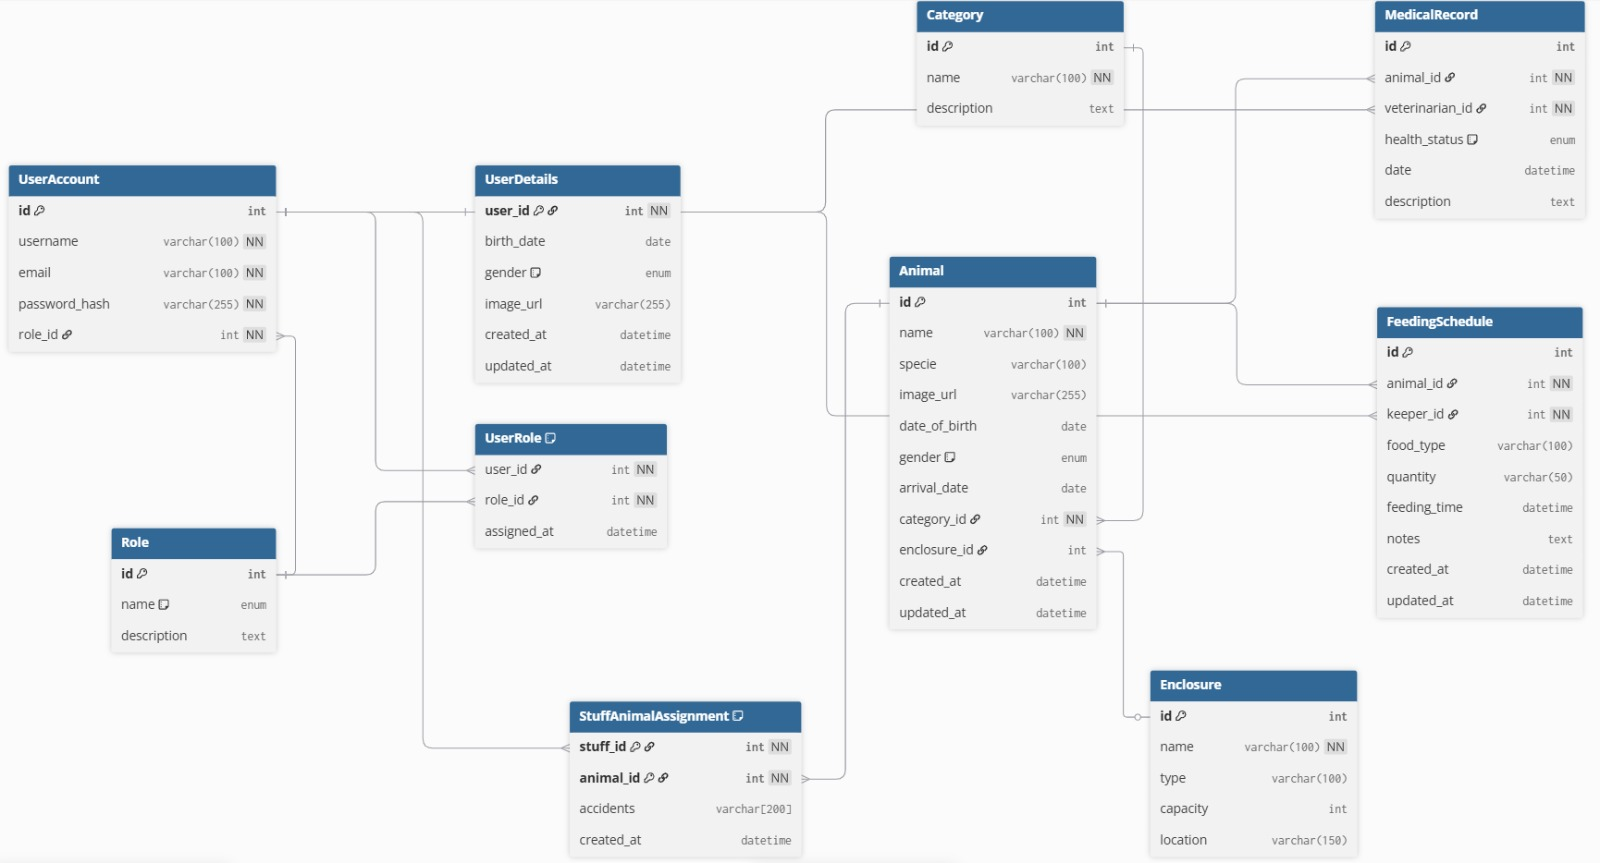
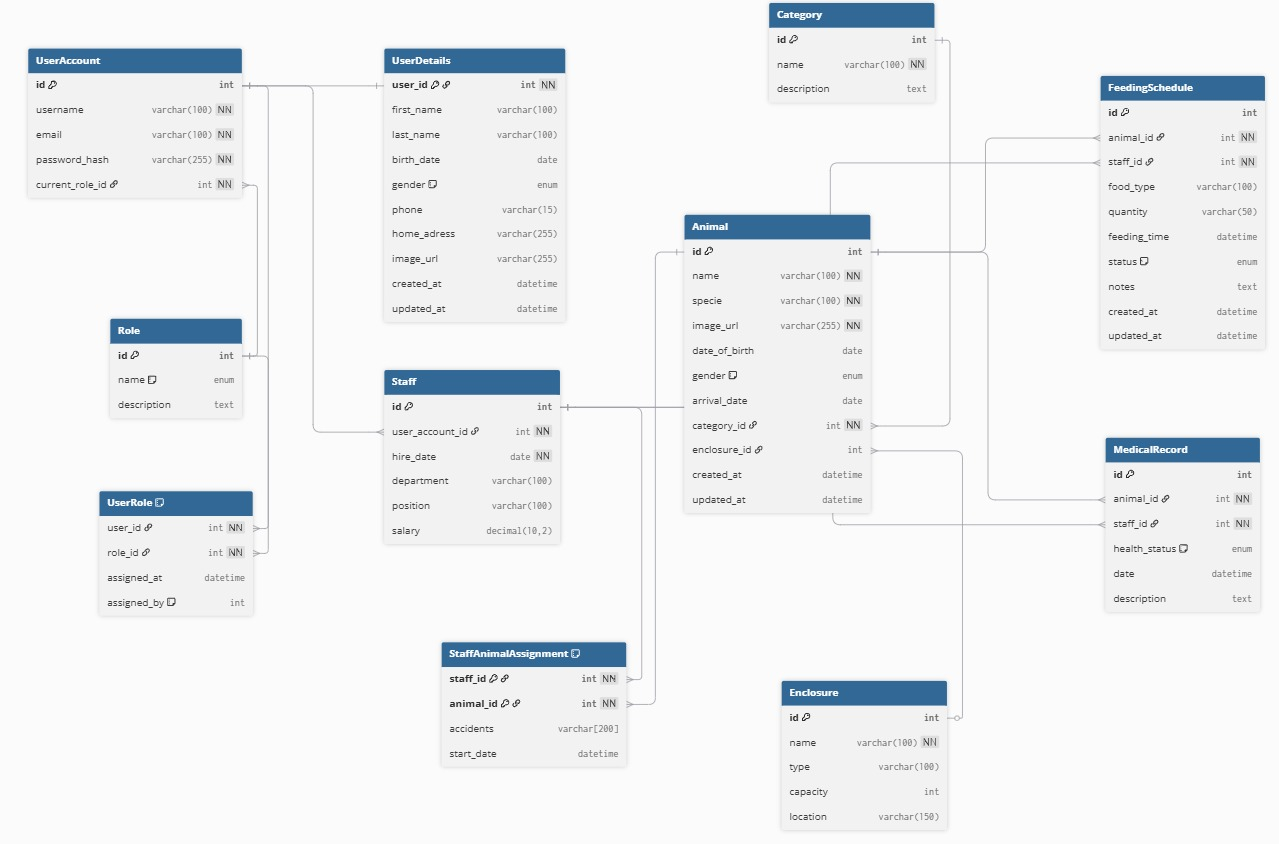
updated the DB design by adding Staff table to respect SRP and move data to separate table

diff --git a/backend/Models/UserDetails.cs b/backend/Models/UserDetails.cs
@@ -1,0 +1,41 @@
+using System.ComponentModel.DataAnnotations;
+using System.ComponentModel.DataAnnotations.Schema;
+using backend.Enums;
+
+namespace backend.Models
+{
+    [Table("UserDetails")]
+    public class UserDetails
+    {
+        /// PK and FK to UserAccount
+        [Key]
+        [ForeignKey("UserAccount")]
+        public int UserId { get; set; }
+
+        [Column(TypeName = "date")]
+        public DateOnly? BirthDate { get; set; }
+
+        [Column(TypeName = "varchar(10)")]
+        public Gender? Gender { get; set; }
+
+        [MaxLength(255)]
+        public string? ImageUrl { get; set; }
+
+        public DateTime CreatedAt { get; set; }
+
+        public DateTime UpdatedAt { get; set; }
+
+        public virtual UserAccount UserAccount { get; set; } = null!; 
+
+        // (moved) many-to-many relationship with roles is exposed on UserAccount via UserRole
+
+        // feeding schedules created by this user (if they're a zookeeper)
+        public virtual ICollection<FeedingSchedule> FeedingSchedules { get; set; } = new List<FeedingSchedule>();
+
+        // medical records created by this user (if they're a veterinarian)
+        public virtual ICollection<MedicalRecord> MedicalRecords { get; set; } = new List<MedicalRecord>();
+
+        // animal assignments for this staff member
+        public virtual ICollection<StaffAnimalAssignment> AnimalAssignments { get; set; } = new List<StuffAnimalAssignment>();
+    }
+}

diff --git a/backend/Models/UserAccount.cs b/backend/Models/UserAccount.cs
@@ -1,0 +1,41 @@
+using System.ComponentModel.DataAnnotations;
+using System.ComponentModel.DataAnnotations.Schema;
+
+namespace backend.Models
+{
+    [Table("UserAccount")]
+    public class UserAccount
+    {
+        [Key]
+        [DatabaseGenerated(DatabaseGeneratedOption.Identity)]
+        public int Id { get; set; }
+
+        [Required]
+        [MaxLength(100)] 
+        public string Username { get; set; } = string.Empty;
+
+        [Required]
+        [MaxLength(100)]
+        [EmailAddress]
+        public string Email { get; set; } = string.Empty;
+
+        [Required]
+        [MaxLength(255)]
+        public string PasswordHash { get; set; } = string.Empty;
+
+        // Current active role for this session
+        [Required]
+        public int CurrentRoleId { get; set; }
+
+        // primary role of this user
+        [ForeignKey("CurrentRoleId")]
+        public virtual Role CurrentRole { get; set; } = null!;
+
+        // One-to-one relationship with UserDetails
+        public virtual UserDetails UserDetails { get; set; } = null!;
+        
+            // Many-to-many relationship with roles through UserRole (additional roles)
+            public virtual ICollection<UserRole> UserRoles { get; set; } = new List<UserRole>();
+
+    }
+}

diff --git a/backend/Models/Role.cs b/backend/Models/Role.cs
@@ -1,3 +1,27 @@
 using System.ComponentModel.DataAnnotations; 
 using System.ComponentModel.DataAnnotations.Schema;
-using ZooManagementAPI.Enums;
+using backend.Enums; 
+
+namespace backend.Models
+{
+    [Table("Role")]
+    public class Role
+    {
+        [Key]
+        [DatabaseGenerated(DatabaseGeneratedOption.Identity)]
+        public int Id { get; set; }
+
+        [Required]
+        [Column(TypeName = "varchar(20)")]
+        public RoleName Name { get; set; }
+
+        [Column(TypeName = "text")]
+        public string? Description { get; set; }
+
+        //lsit with all users with this role
+        public virtual ICollection<UserAccount> UserAccounts { get; set; } = new List<UserAccount>();
+
+        // Many-to-many relationship with users through UserRole
+        public virtual ICollection<UserRole> UserRoles { get; set; } = new List<UserRole>();
+    }
+}

diff --git a/backend/Models/Animal.cs b/backend/Models/Animal.cs
@@ -1,8 +1,8 @@
 using System.ComponentModel.DataAnnotations; 
 using System.ComponentModel.DataAnnotations.Schema; 
-using ZooManagementAPI.Enums; 
+using backend.Enums; 
 
-namespace ZooManagementAPI.Models
+namespace backend.Models
 {
     [Table("Animal")] 
     public class Animal
@@ -55,6 +55,6 @@ namespace ZooManagementAPI.Models
         public virtual ICollection<MedicalRecord> MedicalRecords { get; set; } = new List<MedicalRecord>();
     
         // Collection of staff assignments for this animal 
-        public virtual ICollection<StuffAnimalAssignment> StaffAssignments { get; set; } = new List<StuffAnimalAssignment>();
+        public virtual ICollection<StaffAnimalAssignment> StaffAssignments { get; set; } = new List<StuffAnimalAssignment>();
     }
 }

diff --git a/backend/obj/Debug/net9.0/backend.AssemblyInfo.cs b/backend/obj/Debug/net9.0/backend.AssemblyInfo.cs
@@ -13,7 +13,7 @@ using System.Reflection;
 [assembly: System.Reflection.AssemblyCompanyAttribute("backend")]
 [assembly: System.Reflection.AssemblyConfigurationAttribute("Debug")]
 [assembly: System.Reflection.AssemblyFileVersionAttribute("1.0.0.0")]
-[assembly: System.Reflection.AssemblyInformationalVersionAttribute("1.0.0+1a61ab29c1e32c0bd58f79236f64090fdafff872")]
+[assembly: System.Reflection.AssemblyInformationalVersionAttribute("1.0.0+cfa267e668fb984bab7eeadc6dd98dac799aca58")]
 [assembly: System.Reflection.AssemblyProductAttribute("backend")]
 [assembly: System.Reflection.AssemblyTitleAttribute("backend")]
 [assembly: System.Reflection.AssemblyVersionAttribute("1.0.0.0")]

diff --git a/backend/Models/UserRole.cs b/backend/Models/UserRole.cs
@@ -1,0 +1,25 @@
+using System.ComponentModel.DataAnnotations;
+using System.ComponentModel.DataAnnotations.Schema;
+
+namespace backend.Models
+{
+    [Table("UserRole")]
+    public class UserRole
+    {
+        [Key]
+        [DatabaseGenerated(DatabaseGeneratedOption.Identity)]
+        public int Id { get; set; }
+
+        [Required]
+        public int UserAccountId { get; set; }
+
+        [Required]
+        public int RoleId { get; set; }
+
+        [ForeignKey("UserAccountId")]
+        public virtual UserAccount UserAccount { get; set; } = null!;
+
+        [ForeignKey("RoleId")]
+        public virtual Role Role { get; set; } = null!;
+    }
+}

diff --git a/backend/Models/Category.cs b/backend/Models/Category.cs
@@ -1,7 +1,7 @@
 using System.ComponentModel.DataAnnotations; 
 using System.ComponentModel.DataAnnotations.Schema;
 
-namespace ZooManagementAPI.Models
+namespace backend.Models
 {
     // Represents a category/classification for animals (e.g., Mammals, Birds, Reptiles) 
 

diff --git a/backend/Models/Enclosure.cs b/backend/Models/Enclosure.cs
@@ -1,7 +1,7 @@
 using System.ComponentModel.DataAnnotations;
 using System.ComponentModel.DataAnnotations.Schema;
 
-namespace ZooManagementAPI.Models
+namespace backend.Models
 {
     // Represents a physical enclosure/habitat where animals are kept
     

diff --git a/backend/Enums/RoleName.cs b/backend/Enums/RoleName.cs
@@ -1,4 +1,4 @@
-namespace ZooManagementAPI.Enums
+namespace backend.Enums
 {
     // Defines the different roles available in the system
     // Admin: Full system access

diff --git a/backend/Enums/HealthStatus.cs b/backend/Enums/HealthStatus.cs
@@ -1,4 +1,4 @@
-namespace ZooManagementAPI.Enums
+namespace backend.Enums
 {
     // Represents the health status of an animal
     public enum HealthStatus

diff --git a/backend/Enums/Gender.cs b/backend/Enums/Gender.cs
@@ -1,4 +1,4 @@
-namespace ZooManagementAPI.Enums
+namespace backend.Enums
 {
     //used both for animals and employees
     public enum Gender
